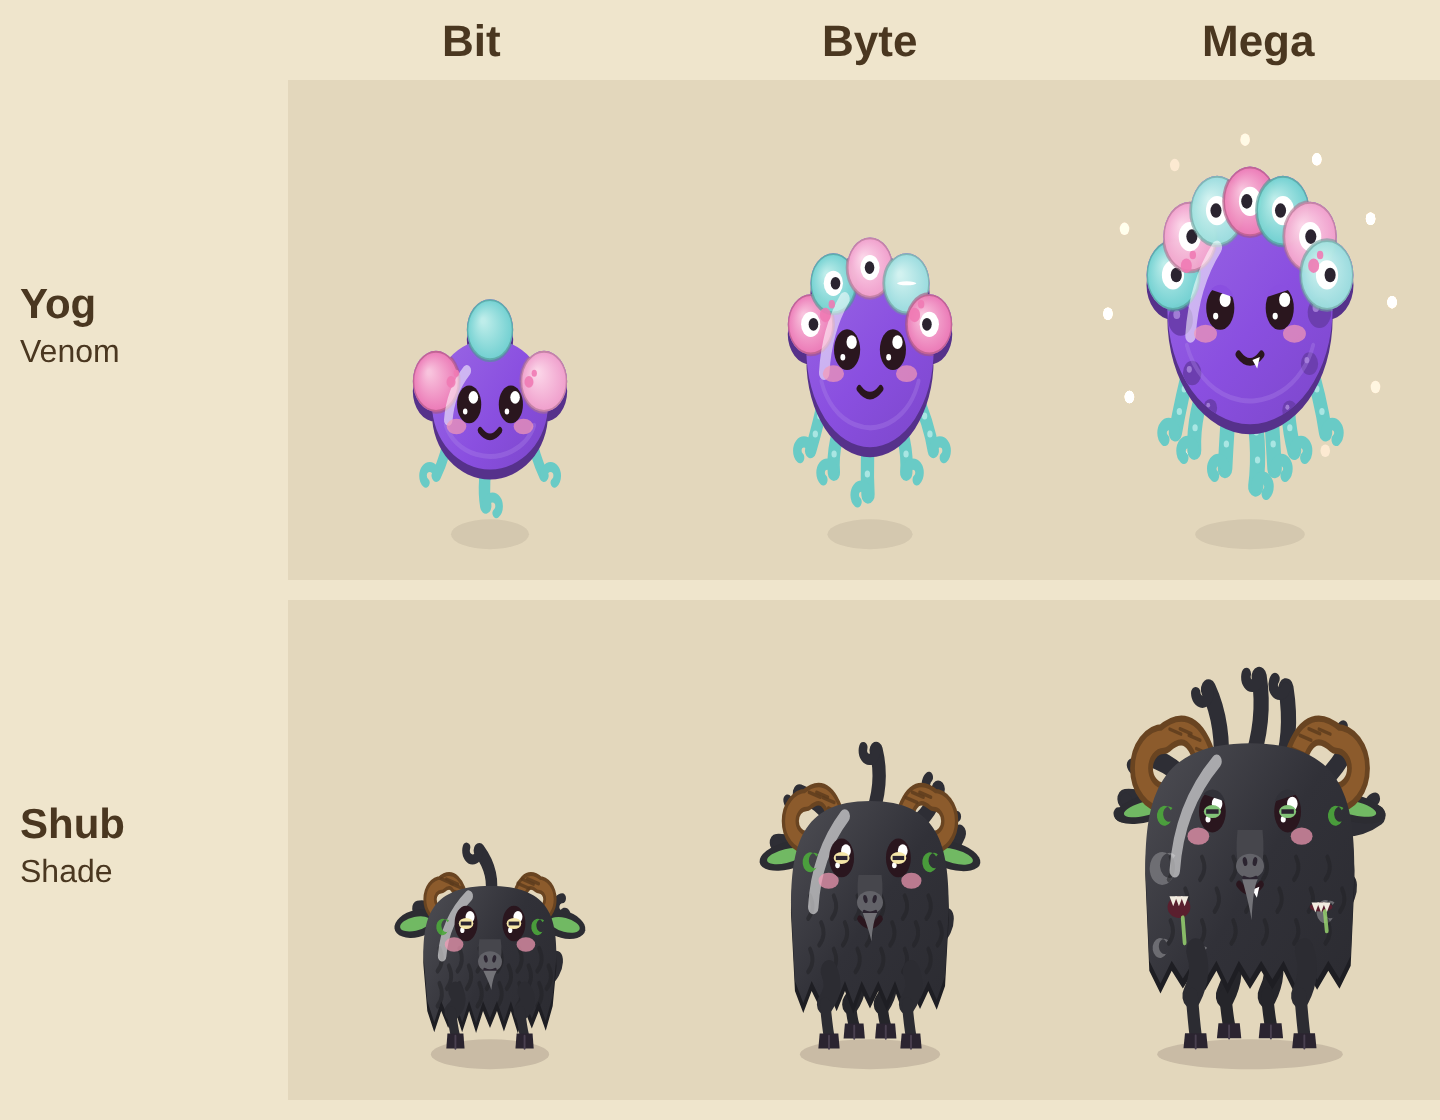
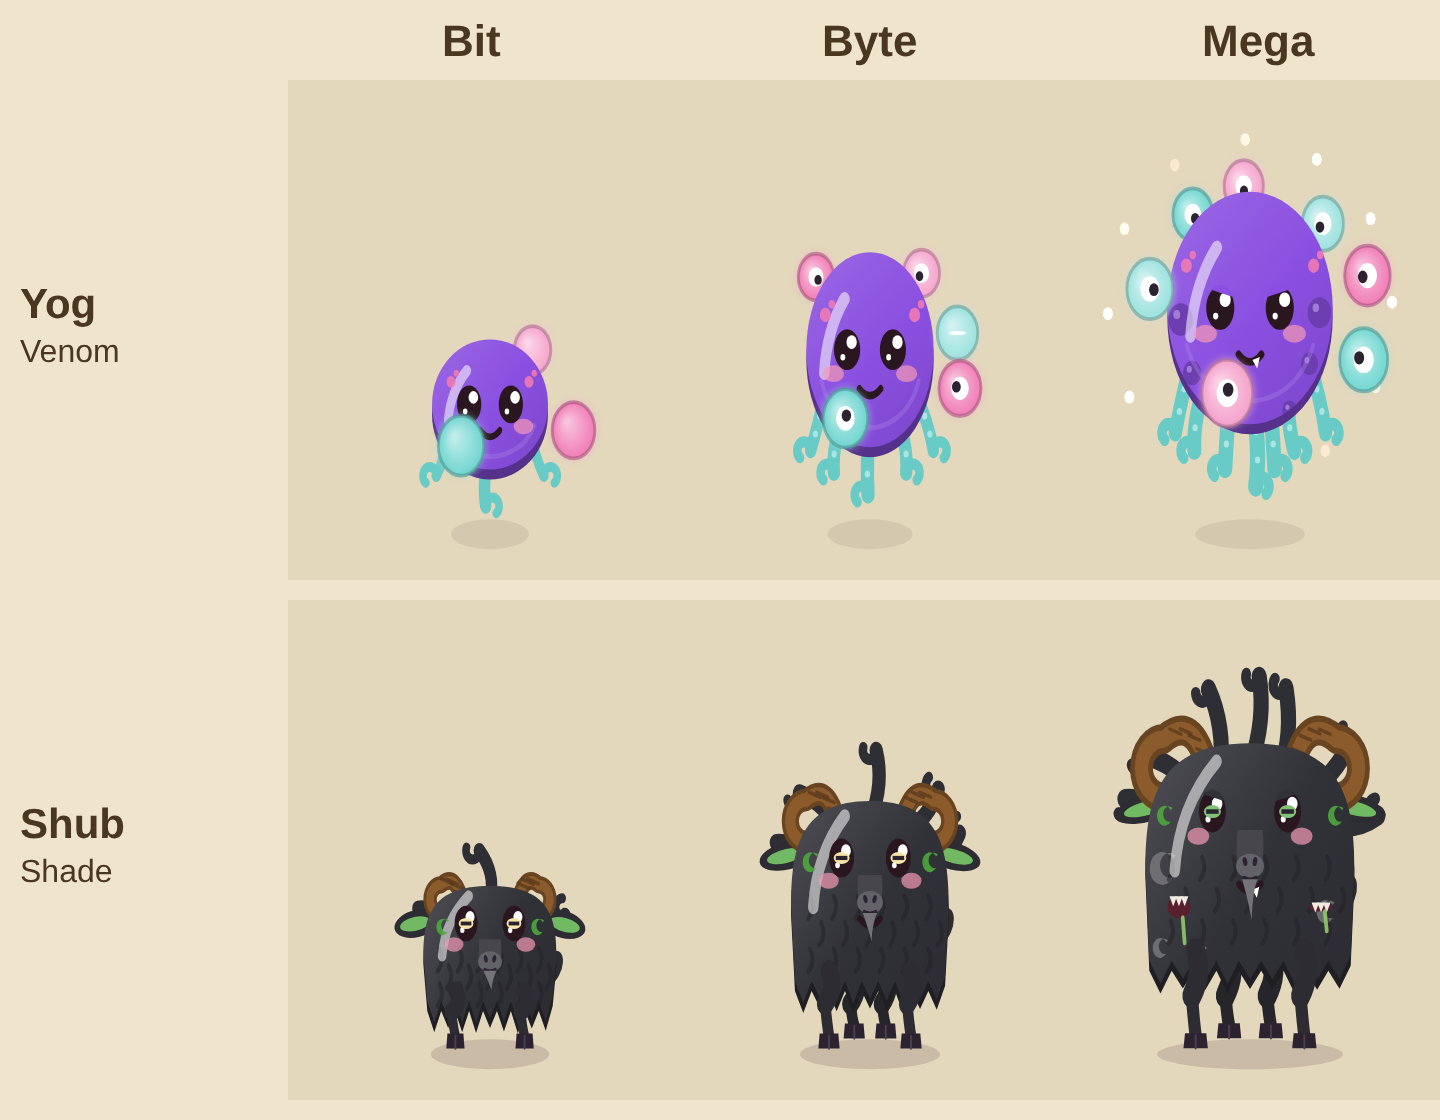
Yog's globes drift round it on their own orbits, passing in front and behind
Claude-Session: https://claude.ai/code/session_01MQWzxVrGaM5SWzbnobBWB8

diff --git a/prototype/chibi.js b/prototype/chibi.js
@@ -3578,27 +3578,30 @@ x.feet.push([g.cx, 182, 10]); },
         if (S === 'Mega') { c.fillStyle = '#d06070'; c.beginPath(); c.ellipse(g.cx, my0 + mh * 0.72, mw * 0.32, mh * 0.16, 0, 0, 7); c.fill(); }   // a fat tongue
         return fi; }
     },
-    /* Yog: Yog-Sothoth, a floating globe with a crown of smaller glowing globes set round its top like a halo, and feelers trailing under it. Three halo globes and three feelers; five globes with eyes in them and five feelers from Byte; seven globes that change colour, a ring of sparks and seven feelers at Mega */
+    /* Yog: Yog-Sothoth, a floating globe with smaller glowing globes always drifting round it, passing in front and behind, and feelers trailing under it. Three globes and three feelers; five globes with eyes in them and five feelers from Byte; seven globes that change colour, a ring of sparks and seven feelers at Mega */
     Yog: {
       special: true, float: true, dims: { Bit: [58, 58], Byte: [70, 70], Mega: [82, 82] }, slots: { feet: false },
-      bottom(st) { return by(st, 158, 150, 142); }, height(st) { return this.dims[st][1] + by(st, 22, 30, 40) + (182 - this.bottom(st)); },
-      globes(g) { const n = by(g.stage, 3, 5, 7), R = g.bw * 0.5, cy = g.top + g.bh / 2, r = g.bw * by(g.stage, 0.2, 0.18, 0.16), out = [];   // the halo: small globes set evenly over the top half, half sunk into the big one
-        for (let k = 0; k < n; k++) { const a = Math.PI * (1.1 + k / (n - 1) * 0.8); out.push([g.cx + Math.cos(a) * R * 0.98, cy + Math.sin(a) * R * 0.98, r, k]); } return out; },
-      path(c, g) { c.beginPath(); c.ellipse(g.cx, g.top + g.bh / 2, g.bw / 2, g.bh / 2, 0, 0, 7); for (const [px, py, r] of this.globes(g)) { c.moveTo(px + r, py); c.ellipse(px, py, r, r, 0, 0, 7); } },
+      bottom(st) { return by(st, 158, 150, 142); }, height(st) { return this.dims[st][1] + by(st, 30, 38, 48) + (182 - this.bottom(st)); },
+      globes(g, t) { const n = by(g.stage, 3, 5, 7), cy = g.top + g.bh * 0.46, out = [];   // each globe on its own tilted orbit at its own speed, drifting in and out
+        for (let k = 0; k < n; k++) { const sp = (k % 2 ? -1 : 1) * (0.00045 + k * 0.00009), a = k * 2.399 + t * sp, rx = g.bw * (0.7 + 0.1 * Math.sin(t / 900 + k * 1.7)), tilt = 0.2 * Math.sin(k * 1.3 + 0.5), depth = Math.sin(a);
+          const r = g.bw * by(g.stage, 0.18, 0.16, 0.14) * (0.85 + 0.25 * (depth + 1) / 2); out.push([g.cx + Math.cos(a) * rx, cy + Math.cos(a) * rx * tilt + depth * g.bh * (0.4 + 0.04 * (k % 3)), r, k, depth]); }   // a ring seen from a little above: passing in front takes a globe under its face, passing behind takes it over its head
+        return out; },
+      path(c, g) { c.beginPath(); c.ellipse(g.cx, g.top + g.bh / 2, g.bw / 2, g.bh / 2, 0, 0, 7); },
+      globe(c, g, x, px, py, r, k) { const S = g.stage, hues = [x.acc, x.parts, lt(x.acc, 0.3), lt(x.parts, 0.3)], col = S === 'Mega' ? hues[(k + Math.floor(x.t / 900)) % hues.length] : hues[k % hues.length];
+        c.save(); c.shadowColor = rgba(lt(col, 0.3), 0.8); c.shadowBlur = 8; const gr = c.createRadialGradient(px - r * 0.3, py - r * 0.3, 1, px, py, r); gr.addColorStop(0, rgba(lt(col, 0.55), 1)); gr.addColorStop(1, rgba(col, 0.95)); c.fillStyle = gr; c.beginPath(); c.arc(px, py, r, 0, 7); c.fill(); c.restore();
+        c.strokeStyle = rgba(dk(col, 0.3), 0.6); c.lineWidth = 1.5; c.beginPath(); c.arc(px, py, r, 0, 7); c.stroke();
+        if (S !== 'Bit' && !x.back) { const er = r * 0.42, shut = (x.t + k * 700) % 3000 < 150; c.fillStyle = '#fff'; c.beginPath(); c.ellipse(px, py, er, shut ? 0.8 : er, 0, 0, 7); c.fill();
+          if (!shut) { c.fillStyle = '#2b2430'; c.beginPath(); c.arc(px + (g.cx - px) * 0.04, py + (g.top + g.bh / 2 - py) * 0.04, er * 0.5, 0, 7); c.fill(); } } },   // each eye keeps looking in at the big globe
       behind(c, g, x) { const S = g.stage, n = by(S, 3, 5, 7), col = x.parts;
         if (S === 'Mega') { c.save(); c.globalCompositeOperation = 'lighter'; for (let k = 0; k < 12; k++) { const a = k / 12 * Math.PI * 2 + x.t / 2400, r = g.bw * 0.86, px = g.cx + Math.cos(a) * r, py = g.top + g.bh / 2 + Math.sin(a) * r * 0.9;   // a ring of sparks turning round it
           c.fillStyle = rgba(lt(x.acc, 0.4), 0.35 + 0.25 * Math.sin(x.t / 300 + k)); c.beginPath(); c.arc(px, py, 2.5, 0, 7); c.fill(); } c.restore(); }
         for (let i = 0; i < n; i++) { const f = n > 1 ? i / (n - 1) - 0.5 : 0, bx = g.cx + f * g.bw * 0.7, by0 = g.top + g.bh * (0.86 - Math.abs(f) * 0.3), len = by(S, 22, 30, 38) * (1 - Math.abs(f) * 0.4), sw = Math.sin(x.t / 380 + i * 1.6) * 6, d = f < 0 ? -1 : f > 0 ? 1 : (i % 2 ? 1 : -1);   // feelers trailing under it
           const q = [bx, by0, bx + f * 12 + sw, by0 + len * 0.55, bx + f * 18 + sw * 0.5, by0 + len]; limb(c, q, by(S, 6, 7, 8) - Math.abs(f) * 2, dk(col, 0.05), i % 2 ? x.L.armR : x.L.armL, x.t);
           c.strokeStyle = rgb(dk(col, 0.05)); c.lineWidth = by(S, 4, 4.5, 5); c.lineCap = 'round'; c.beginPath(); c.arc(q[4] + d * 3.5, q[5], 3.5, d > 0 ? Math.PI : 0, d > 0 ? Math.PI * 2.3 : -Math.PI * 1.3, d < 0); c.stroke();
-          if (S !== 'Bit') { c.fillStyle = rgb(lt(col, 0.4)); for (const k of [0.4, 0.7]) { const p = qpt(q, k); c.beginPath(); c.arc(p[0], p[1], 1.4, 0, 7); c.fill(); } } } },
-      inside(c, g, x) { const S = g.stage, hues = [x.acc, x.parts, lt(x.acc, 0.3), lt(x.parts, 0.3)];
-        c.strokeStyle = rgba(lt(x.body, 0.3), 0.35); c.lineWidth = 2; c.beginPath(); c.ellipse(g.cx, g.top + g.bh * 0.56, g.bw * 0.4, g.bh * 0.34, 0, 0.3, Math.PI - 0.3); c.stroke();   // a soft band round the big globe
-        for (const [px, py, r, k] of this.globes(g)) { const col = S === 'Mega' ? hues[(k + Math.floor(x.t / 900)) % hues.length] : hues[k % hues.length];   // each halo globe glows its own colour
-          const gr = c.createRadialGradient(px - r * 0.3, py - r * 0.3, 1, px, py, r); gr.addColorStop(0, rgba(lt(col, 0.55), 1)); gr.addColorStop(1, rgba(col, 0.95)); c.fillStyle = gr; c.beginPath(); c.arc(px, py, r, 0, 7); c.fill();
-          c.strokeStyle = rgba(dk(col, 0.3), 0.6); c.lineWidth = 1.5; c.beginPath(); c.arc(px, py, r, 0, 7); c.stroke();
-          if (S !== 'Bit' && !x.back) { const er = r * 0.42, shut = (x.t + k * 700) % 3000 < 150; c.fillStyle = '#fff'; c.beginPath(); c.ellipse(px, py, er, shut ? 0.8 : er, 0, 0, 7); c.fill();
-            if (!shut) { c.fillStyle = '#2b2430'; c.beginPath(); c.arc(px + Math.sin(x.t / 800 + k) * er * 0.3, py, er * 0.5, 0, 7); c.fill(); } } } },
+          if (S !== 'Bit') { c.fillStyle = rgb(lt(col, 0.4)); for (const k of [0.4, 0.7]) { const p = qpt(q, k); c.beginPath(); c.arc(p[0], p[1], 1.4, 0, 7); c.fill(); } } }
+        for (const [px, py, r, k, depth] of this.globes(g, x.t)) if (depth < 0) this.globe(c, g, x, px, py, r, k); },   // the globes passing behind it
+      inside(c, g, x) { c.strokeStyle = rgba(lt(x.body, 0.3), 0.35); c.lineWidth = 2; c.beginPath(); c.ellipse(g.cx, g.top + g.bh * 0.56, g.bw * 0.4, g.bh * 0.34, 0, 0.3, Math.PI - 0.3); c.stroke(); },   // a soft band round the big globe
+      front(c, g, x) { for (const [px, py, r, k, depth] of this.globes(g, x.t).sort((a, b) => a[4] - b[4])) if (depth >= 0) this.globe(c, g, x, px, py, r, k); },   // the globes passing in front
       hl: g => [g.left + g.bw * 0.14, g.top + g.bh * 0.62, g.left + g.bw * 0.16, g.top + g.bh * 0.4, g.left + g.bw * 0.3, g.top + g.bh * 0.24],
       head: g => [g.cx, g.top + 2, g.bw * 0.44],
       face: (c, g, x, look) => faceTwo(c, g, x, look, { ey: 0.5, ex: 0.18, my: 0.7, s: by(g.stage, 0.74, 0.8, 0.86) })
